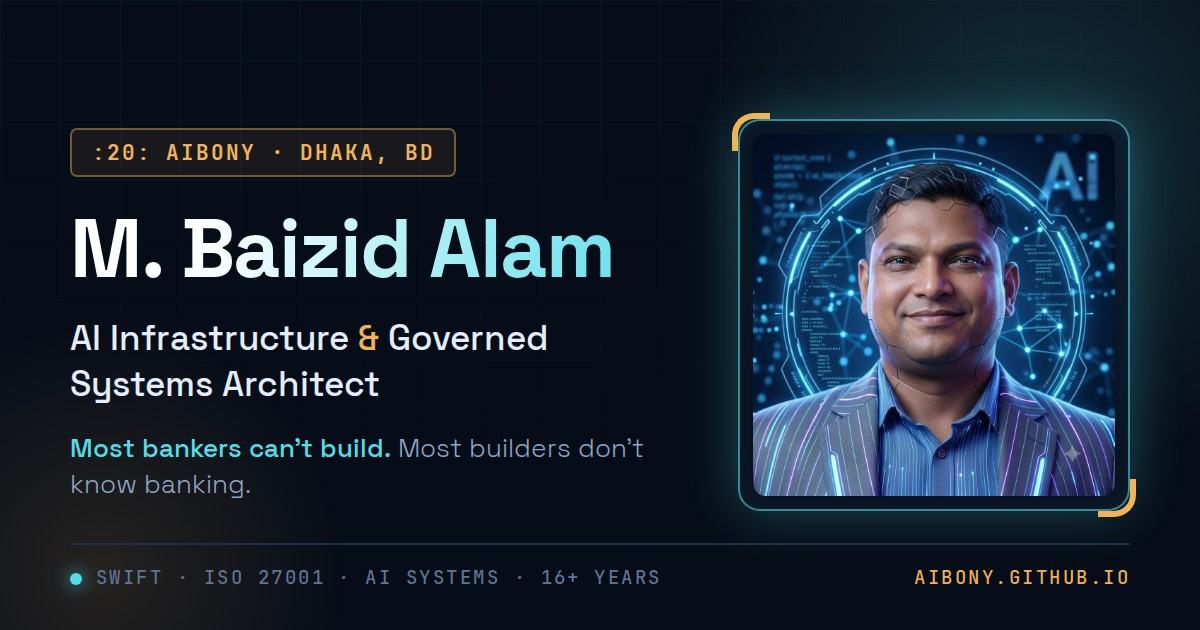
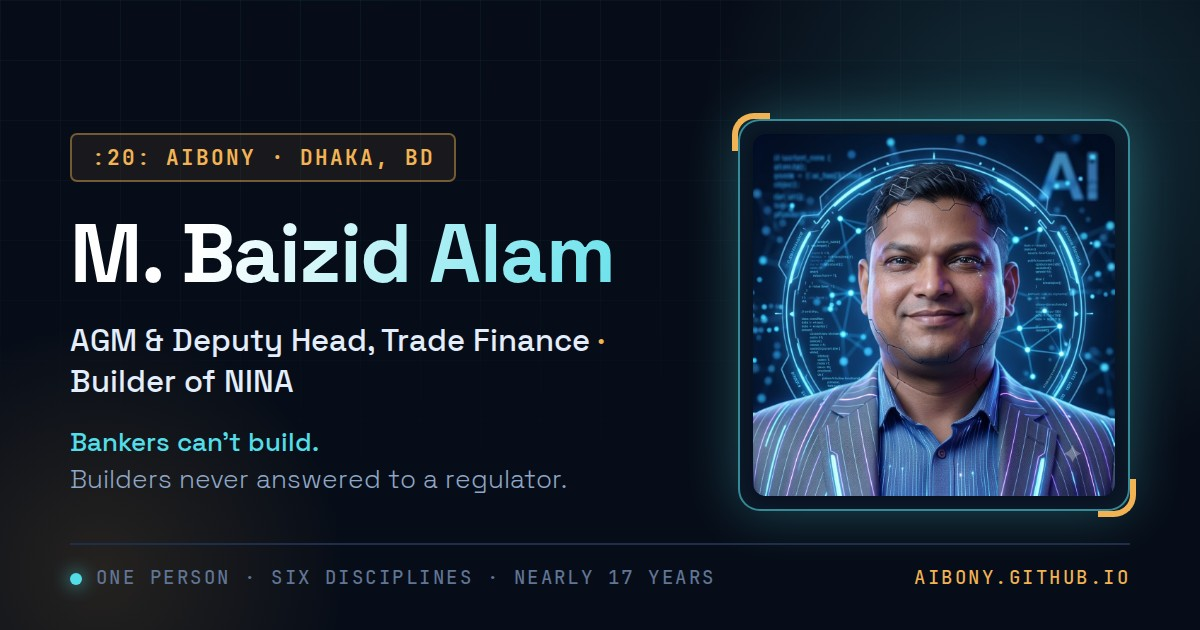
Hardening
Hardening

diff --git a/index.html b/index.html
@@ -5,11 +5,11 @@
 <meta name="viewport" content="width=device-width, initial-scale=1">
 <title>M. Baizid Alam — AI Infrastructure Architect · SWIFT & ISO 20022 · ISO 27001 Lead Auditor</title>
 <meta name="description" content="Banking executive (16+ yrs, SWIFT, trade finance, ISO 27001 Lead Auditor) and builder of NINA, a personal autonomous AI infrastructure. Dhaka, Bangladesh. Available for consulting via Upwork and Fiverr.">
-<meta property="og:title" content="M. Baizid Alam — AI Infrastructure Architect · Banker · Engineer of Machines">
-<meta property="og:description" content="16 years across every core banking domain + a self-built autonomous AI infrastructure. Most bankers can't build; most builders don't know banking.">
+<meta property="og:title" content="M. Baizid Alam — One person. Six disciplines.">
+<meta property="og:description" content="Mechanical engineer · MBA summa cum laude · full-stack banker · SWIFT admin · ISO 27001 Lead Auditor · builder of NINA. Nearly 17 years.">
 <meta property="og:type" content="website">
 <meta property="og:url" content="https://aibony.github.io/">
-<meta property="og:image" content="https://aibony.github.io/og.jpg">
+<meta property="og:image" content="https://aibony.github.io/og.jpg?v=2">
 <meta property="og:image:width" content="1200">
 <meta property="og:image:height" content="630">
 <meta property="og:image:type" content="image/jpeg">
@@ -17,9 +17,9 @@
 <meta property="og:site_name" content="M. Baizid Alam · aibony">
 <meta property="og:locale" content="en_US">
 <meta name="twitter:card" content="summary_large_image">
-<meta name="twitter:title" content="M. Baizid Alam — AI Infrastructure Architect · Banker · Engineer of Machines">
-<meta name="twitter:description" content="16 years across every core banking domain + a self-built autonomous AI infrastructure.">
-<meta name="twitter:image" content="https://aibony.github.io/og.jpg">
+<meta name="twitter:title" content="M. Baizid Alam — One person. Six disciplines.">
+<meta name="twitter:description" content="Mechanical engineer · MBA summa cum laude · full-stack banker · SWIFT admin · ISO 27001 Lead Auditor · builder of NINA. Nearly 17 years.">
+<meta name="twitter:image" content="https://aibony.github.io/og.jpg?v=2">
 <meta name="twitter:image:alt" content="M. Baizid Alam — AI Infrastructure &amp; Governed Systems Architect">
 <link rel="icon" type="image/png" href="favicon.png">
 <link rel="apple-touch-icon" href="apple-touch-icon.png">
@@ -227,7 +227,7 @@
   "name": "M. Baizid Alam",
   "alternateName": "aibony",
   "url": "https://aibony.github.io/",
-  "image": "https://aibony.github.io/og.jpg",
+  "image": "https://aibony.github.io/og.jpg?v=2",
   "jobTitle": "Assistant General Manager — SWIFT In-Charge & Operation Manager",
   "description": "Mechanical engineer and 16-year banking executive who mechanised his own DevOps. Sole SWIFT administrator, ISO/IEC 27001:2022 Lead Auditor, and builder of NINA, a local-first multi-agent AI infrastructure.",
   "email": "mailto:baizid.alam@gmail.com",

diff --git a/evidence.html b/evidence.html
@@ -10,11 +10,11 @@
 <meta property="og:description" content="Architecture, independent due diligence, competency analysis, and business value. The case file behind the claims.">
 <meta property="og:type" content="article">
 <meta property="og:url" content="https://aibony.github.io/evidence.html">
-<meta property="og:image" content="https://aibony.github.io/og.jpg">
+<meta property="og:image" content="https://aibony.github.io/og.jpg?v=2">
 <meta property="og:image:width" content="1200">
 <meta property="og:image:height" content="630">
 <meta name="twitter:card" content="summary_large_image">
-<meta name="twitter:image" content="https://aibony.github.io/og.jpg">
+<meta name="twitter:image" content="https://aibony.github.io/og.jpg?v=2">
 <link rel="icon" type="image/png" href="favicon.png">
 <link rel="preconnect" href="https://fonts.googleapis.com">
 <link rel="preconnect" href="https://fonts.gstatic.com" crossorigin>
@@ -397,7 +397,7 @@
   "headline": "Evidence — Architecture, Due Diligence, Competencies and Business Value",
   "author": { "@id": "https://aibony.github.io/#person" },
   "mainEntityOfPage": "https://aibony.github.io/evidence.html",
-  "image": "https://aibony.github.io/og.jpg",
+  "image": "https://aibony.github.io/og.jpg?v=2",
   "inLanguage": "en",
   "about": ["AI infrastructure","AI governance","SWIFT administration","ISO 20022","ISO/IEC 27001","multi-agent systems","local-first AI","trade finance"]
 }

diff --git a/profile.html b/profile.html
@@ -10,11 +10,11 @@
 <meta property="og:description" content="A mechanical engineer walked into a bank and found a bigger machine. Sixteen years later he mechanised his own DevOps.">
 <meta property="og:type" content="article">
 <meta property="og:url" content="https://aibony.github.io/profile.html">
-<meta property="og:image" content="https://aibony.github.io/og.jpg">
+<meta property="og:image" content="https://aibony.github.io/og.jpg?v=2">
 <meta property="og:image:width" content="1200">
 <meta property="og:image:height" content="630">
 <meta name="twitter:card" content="summary_large_image">
-<meta name="twitter:image" content="https://aibony.github.io/og.jpg">
+<meta name="twitter:image" content="https://aibony.github.io/og.jpg?v=2">
 <link rel="icon" type="image/png" href="favicon.png">
 <link rel="preconnect" href="https://fonts.googleapis.com">
 <link rel="preconnect" href="https://fonts.gstatic.com" crossorigin>
@@ -223,7 +223,7 @@
   "author": { "@id": "https://aibony.github.io/#person" },
   "publisher": { "@id": "https://aibony.github.io/#person" },
   "mainEntityOfPage": "https://aibony.github.io/profile.html",
-  "image": "https://aibony.github.io/og.jpg",
+  "image": "https://aibony.github.io/og.jpg?v=2",
   "inLanguage": "en",
   "about": ["AI infrastructure", "SWIFT", "ISO 20022", "ISO/IEC 27001", "multi-agent systems", "trade finance"]
 }

diff --git a/card.html b/card.html
@@ -2,9 +2,9 @@
 <title>M. Baizid Alam — Digital Card</title>
 <link rel="canonical" href="https://aibony.github.io/">
 <meta http-equiv="refresh" content="0; url=/">
-<meta property="og:title" content="M. Baizid Alam — One person. Six disciplines. Nearly 17 years.">
-<meta property="og:description" content="Mechanical engineer · MBA summa cum laude · Full-stack banker · SWIFT admin · ISO 27001 Lead Auditor · Builder of NINA.">
-<meta property="og:image" content="https://aibony.github.io/og.jpg">
+<meta property="og:title" content="M. Baizid Alam — One person. Six disciplines.">
+<meta property="og:description" content="Mechanical engineer · MBA summa cum laude · full-stack banker · SWIFT admin · ISO 27001 Lead Auditor · builder of NINA. Nearly 17 years.">
+<meta property="og:image" content="https://aibony.github.io/og.jpg?v=2">
 <meta property="og:url" content="https://aibony.github.io/">
 <script>location.replace("/");</script>
 </head><body style="background:#070D18;color:#9FB2D0;font-family:system-ui;padding:40px">
